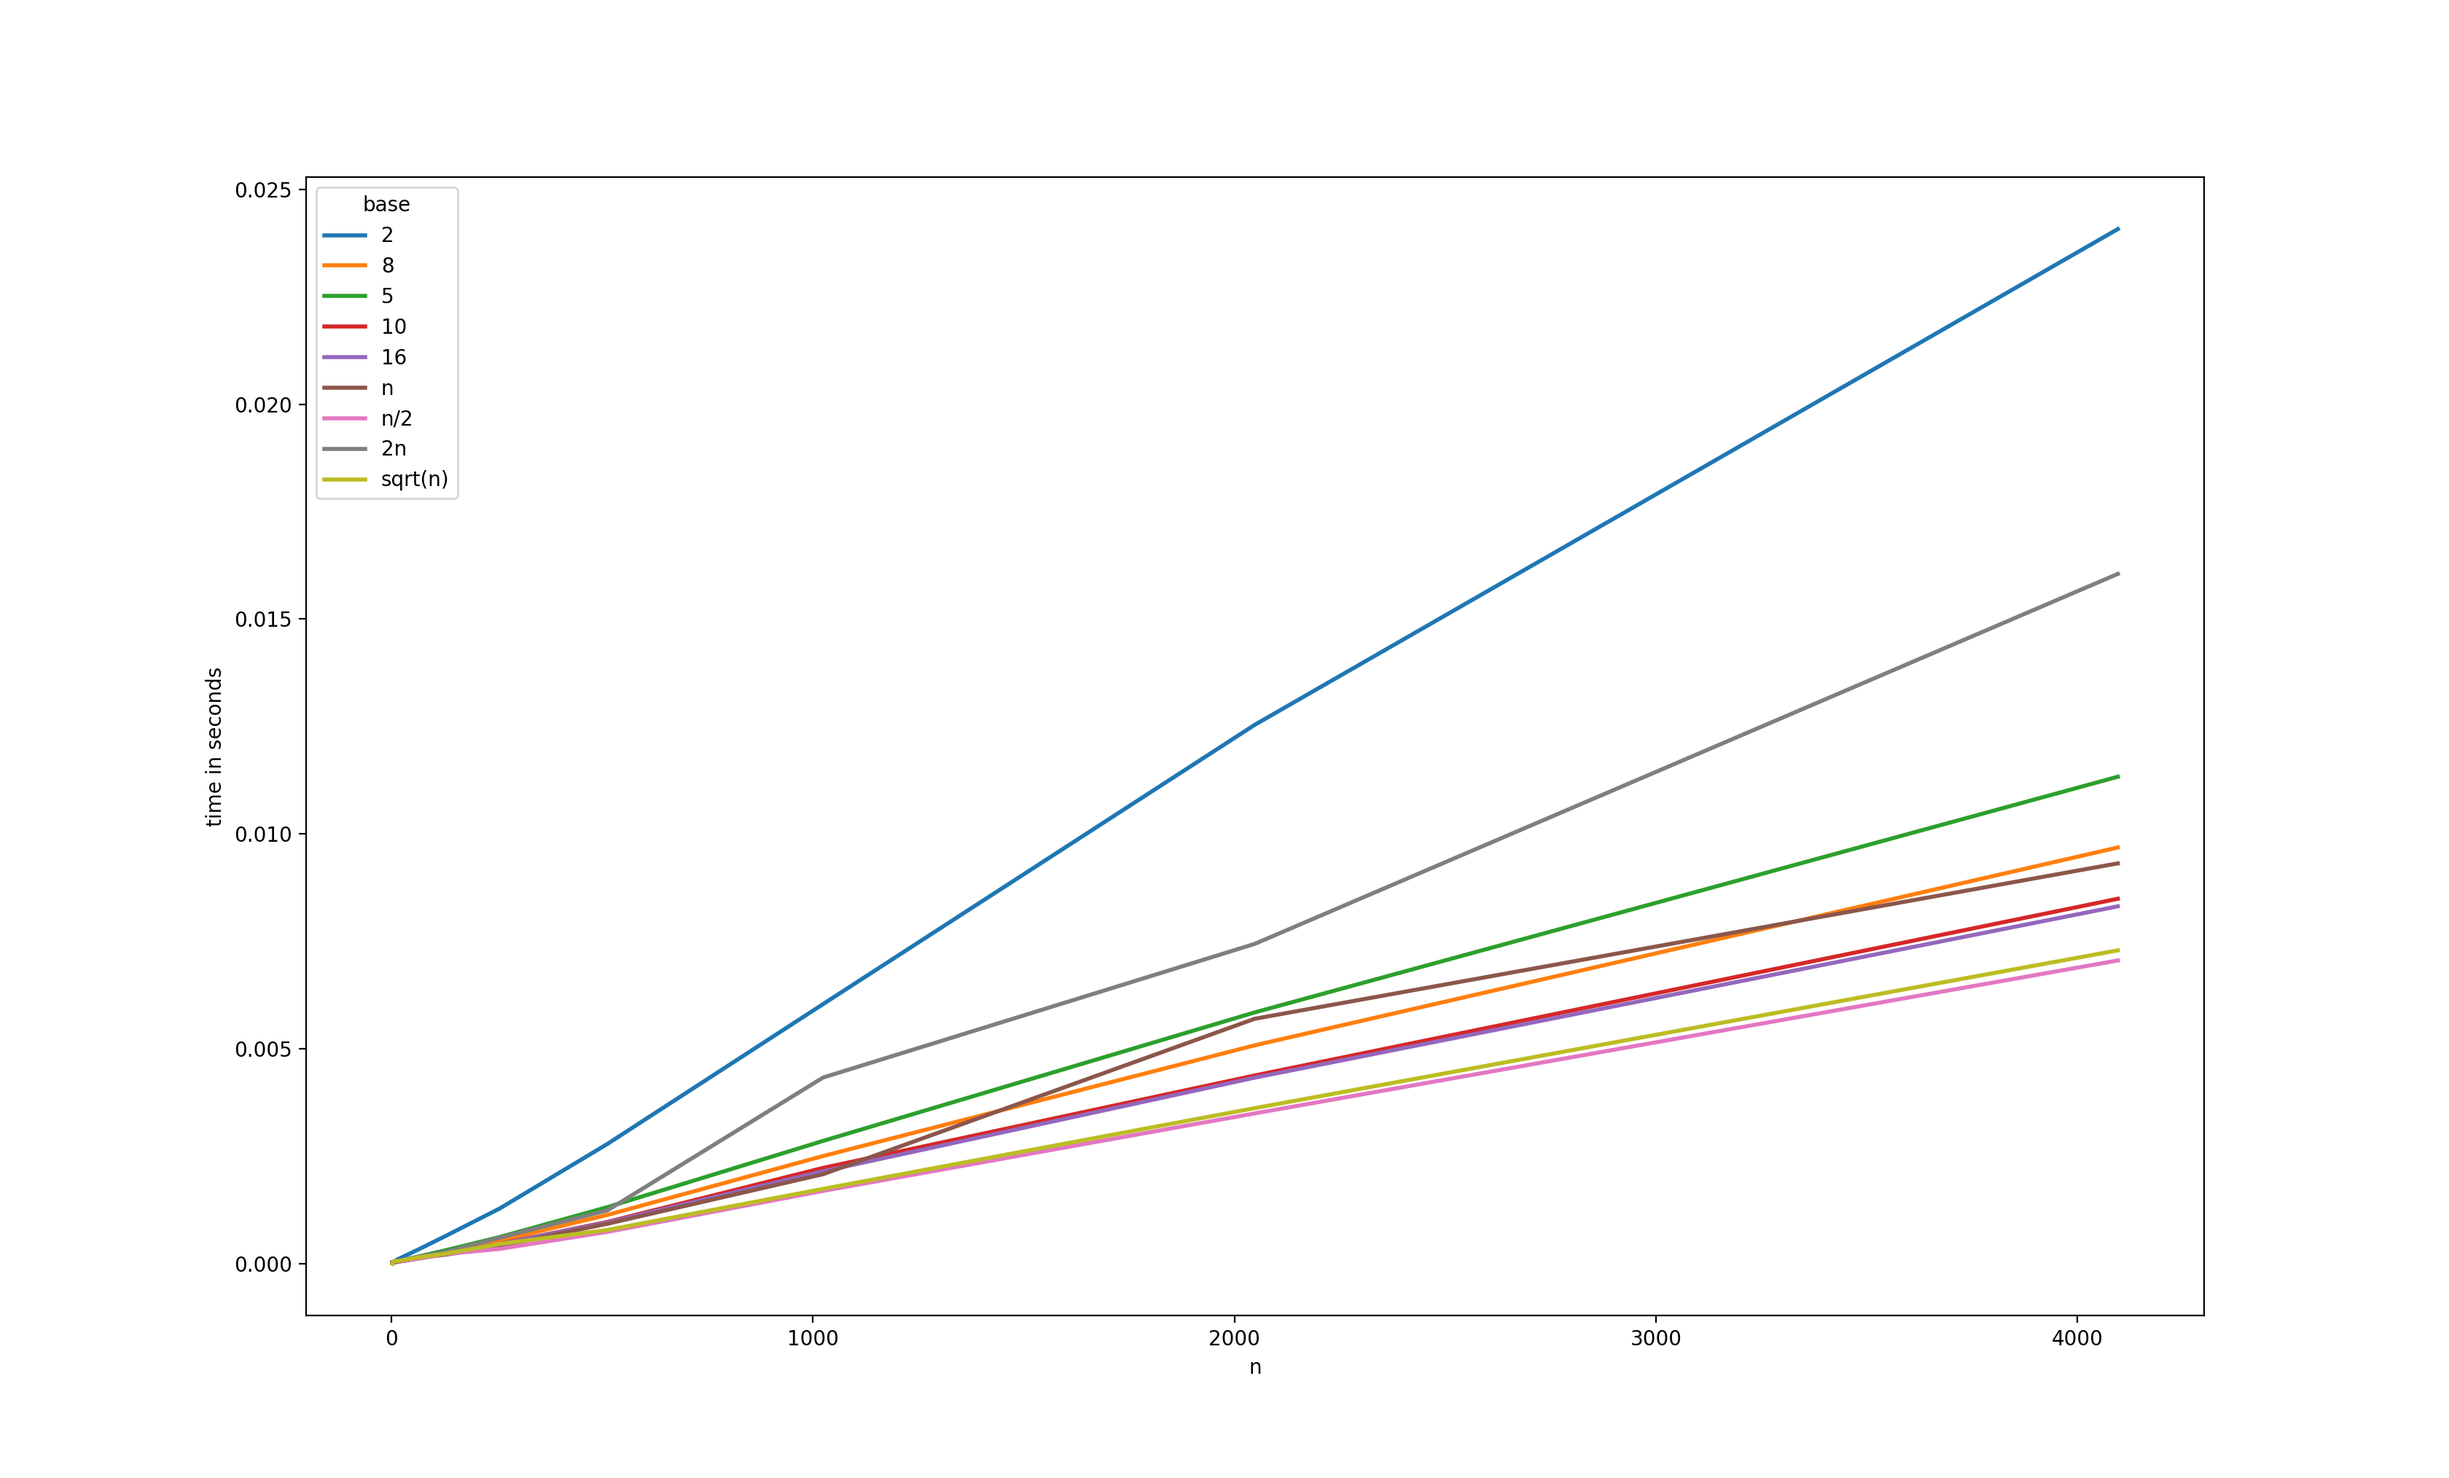
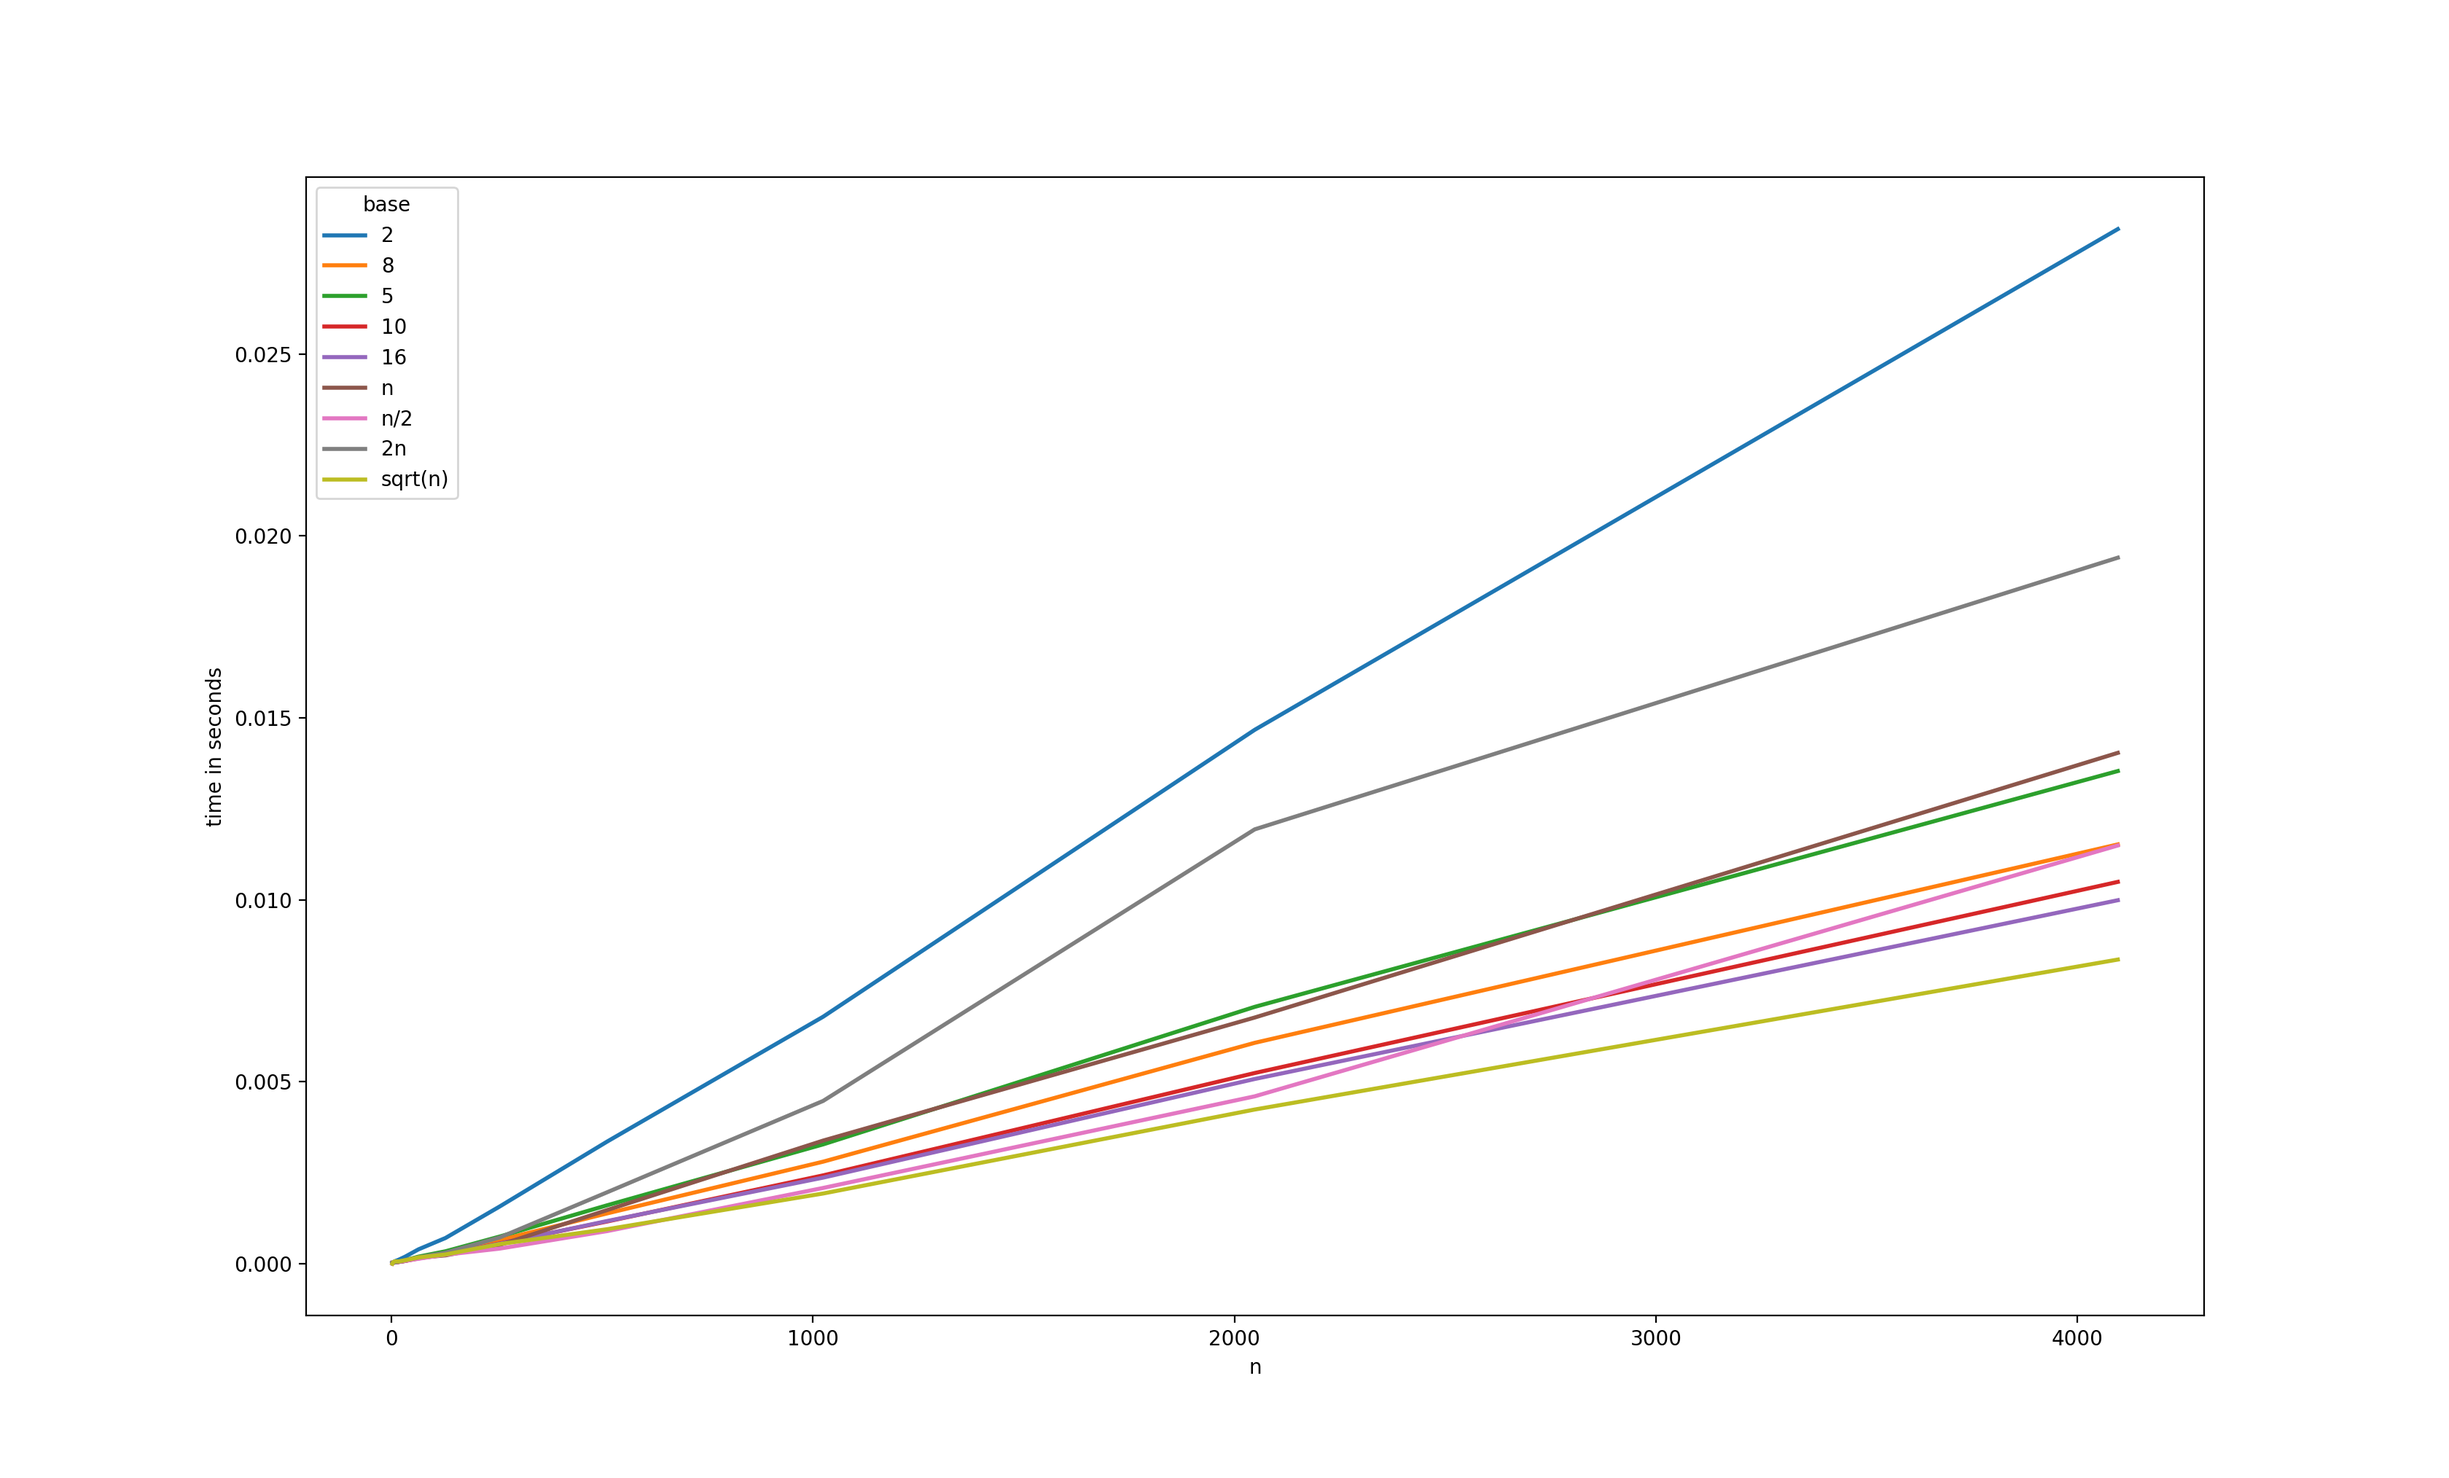
additions

diff --git a/140_EC.py b/140_EC.py
@@ -186,18 +186,15 @@ def compare_radix_sort_2(list_of_bases,max_length=10):
     for i in list_of_bases:
         d[i] = {}
     max = 10000
-    iterations = 10
+    iterations = 100
     for j in range(1,max_length):
-        print(j)
         n = 2**j
         sub_d = {}
         for i in list_of_bases:
             sub_d[i] = 0.0
         for k in range(iterations):
-            print(j,k)
             lst = random_list_of_ints(n,0,max)
             for i in list_of_bases:
-                print(j,k,i)
                 if i.isdigit():
                     start = time.time()
                     Radix_Sort.sort(lst,int(i))
@@ -268,7 +265,7 @@ def main():
 
     d = compare([Insertion_Sort,Mergesort,Mergesort_mixed],max_length)
     writer = MarkdownTableWriter()
-    writer.table_name = "Merge v Insertion"
+    writer.table_name = "Merge v Insertion v Merge Mixed"
     writer.headers = ["function"]+[str(2**i) for i in range(1,max_length)]
     writer.value_matrix = [[func]+[d[func][2**i] for i in range(1,max_length)]for func in d.keys()]
     writer.write_table()
@@ -281,7 +278,6 @@ def main():
     plt.ylabel('time in seconds')
     plt.xlabel('n')
     plt.show()
-    fig.savefig("merge_v_insertion.png", dpi=fig.dpi)
     plt.clf()
     """
     d = compare_radix_sort_2(["2","8","5","10","16","n","n/2","2n","sqrt(n)"],max_length)
@@ -298,6 +294,7 @@ def main():
     plt.xlabel('n')
     plt.show()
     """
+
     #fig.savefig("radix_("+min+"_"+max+").png", dpi=fig.dpi)
 
 

diff --git a/README.md b/README.md
@@ -19,11 +19,11 @@ The actual mean times are as follows:
 ![Graph of Merge v Insertion v Merge Mixed](https://github.com/Maggab1031/140_Extra_Credit/blob/master/Merge_v_insertion_with_merge_mixed.png "Merge v Insertion v merge mixed")
 
 # Merge v Insertion v Merge Mixed
-| n         |   2    |   4    |   8    |   16   |   32   |   64   |  128   |  256   |  512   |  1024  |  2048  | 4096  |
+| function  |   2    |   4    |   8    |   16   |   32   |   64   |  128   |  256   |  512   |  1024  |  2048  | 4096  |
 |-----------|-------:|-------:|-------:|-------:|-------:|-------:|-------:|-------:|-------:|-------:|-------:|------:|
-|insertion  |0.000001|0.000002|0.000005|0.000015|0.000049|0.000172|0.000727|0.002150|0.010812|0.035475|0.146041|0.59265|
-|merge      |0.000002|0.000005|0.000013|0.000032|0.000079|0.000192|0.000483|0.000869|0.002263|0.003938|0.008715|0.01894|
-|merge_mixed|0.000001|0.000002|0.000006|0.000015|0.000050|0.000175|0.000477|0.000872|0.002261|0.003914|0.008658|0.01901|
+|insertion  |0.000001|0.000002|0.000005|0.000015|0.000049|0.000159|0.000564|0.002061|0.008741|0.036119|0.146618|0.60664|
+|merge      |0.000002|0.000005|0.000013|0.000032|0.000079|0.000178|0.000383|0.000827|0.001837|0.004011|0.008719|0.01919|
+|merge_mixed|0.000001|0.000002|0.000005|0.000015|0.000049|0.000163|0.000379|0.000823|0.001819|0.003995|0.008693|0.01922|
 
 
 2. What base is best to use with Radix sort when sorting lists with random ints?
@@ -49,18 +49,18 @@ If you are interested in the raw averages, here they are:
 
 After some advice from Professor DeVanny, I decided to add some more variable bases to my model.
 
-# Radix Base
+# Radix Extra Bases
 | base  |   2    |   4    |   8    |   16   |   32   |   64   |  128   |  256   |  512   |  1024  |  2048  |  4096  |
 |-------|-------:|-------:|-------:|-------:|-------:|-------:|-------:|-------:|-------:|-------:|-------:|-------:|
-|      2|0.000036|0.000046|0.000068|0.000109|0.000185|0.000333|0.000645|0.001282|0.002786|0.006042|0.012538|0.024074|
-|      8|0.000023|0.000028|0.000036|0.000052|0.000087|0.000148|0.000273|0.000535|0.001135|0.002506|0.005082|0.009685|
-|      5|0.000023|0.000028|0.000037|0.000057|0.000094|0.000169|0.000313|0.000620|0.001316|0.002859|0.005848|0.011331|
-|     10|0.000022|0.000025|0.000034|0.000049|0.000072|0.000127|0.000233|0.000461|0.000972|0.002230|0.004380|0.008492|
-|     16|0.000026|0.000030|0.000038|0.000053|0.000076|0.000130|0.000240|0.000454|0.000959|0.002151|0.004329|0.008316|
-|n      |0.000034|0.000029|0.000035|0.000052|0.000074|0.000140|0.000210|0.000412|0.000930|0.002084|0.005700|0.009316|
-|n/2    |0.000001|0.000045|0.000040|0.000052|0.000079|0.000117|0.000227|0.000345|0.000741|0.001695|0.003498|0.007057|
-|2n     |0.000023|0.000027|0.000038|0.000053|0.000102|0.000164|0.000271|0.000605|0.001241|0.004333|0.007442|0.016051|
-|sqrt(n)|0.000001|0.000046|0.000067|0.000063|0.000094|0.000147|0.000236|0.000460|0.000786|0.001742|0.003620|0.007291|
+|      2|0.000030  |0.000044  |0.000069  |0.000105  |0.000192|0.000395|0.000707|0.001568|0.003359|0.006786|0.014670|0.028430|
+|      8|0.000020  |0.000026  |0.000037  |0.000052  |0.000085|0.000171|0.000303|0.000651|0.001384|0.002804|0.006070|0.011522|
+|      5|0.000019  |0.000027  |0.000039  |0.000055  |0.000095|0.000194|0.000341|0.000745|0.001607|0.003279|0.007058|0.013538|
+|     10|0.000019  |#0.000025#|#0.000033#|#0.000045#|0.000075|0.000147|0.000253|0.000558|0.001161|0.002427|0.005240|0.010492|
+|     16|0.000023  |0.000029  |0.000039  |0.000050  |0.000079|0.000154|0.000258|0.000549|0.001175|0.002366|0.005076|0.009988|
+|n      |0.000029  |0.000028  |0.000036  |0.000049  |0.000075|0.000165|0.000229|0.000513|0.001476|0.003383|0.006765|0.014038|
+|n/2    |#0.000001#|0.000043  |0.000042  |0.000050  |0.000078|0.000137|0.000248|0.000415|0.000898|0.002082|0.004599|0.011493|
+|2n     |0.000020  |0.000026  |0.000038  |0.000052  |0.000101|0.000175|0.000302|0.000718|0.001966|0.004473|0.011935|0.019400|
+|sqrt(n)|#0.000001#|0.000044  |0.000068  |0.000061  |0.000095|0.000173|0.000254|0.000539|0.000949|0.001929|0.004237|0.008358|
 
 ![Graph of Radix 2](https://github.com/Maggab1031/140_Extra_Credit/blob/master/new_radix.png "Radix")
 
